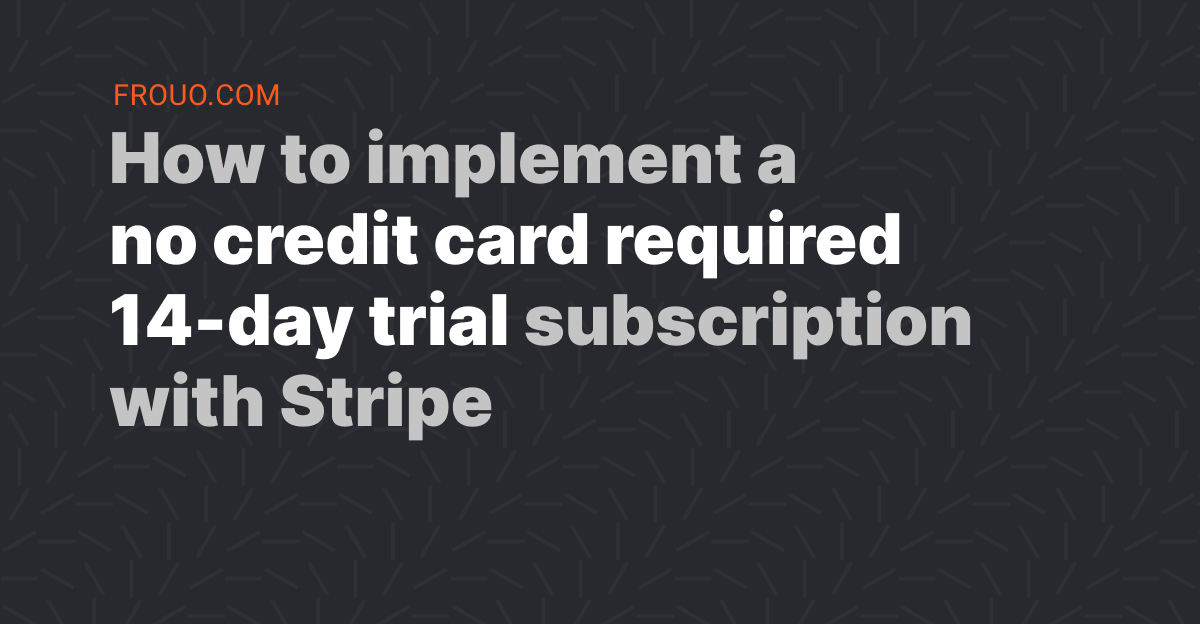
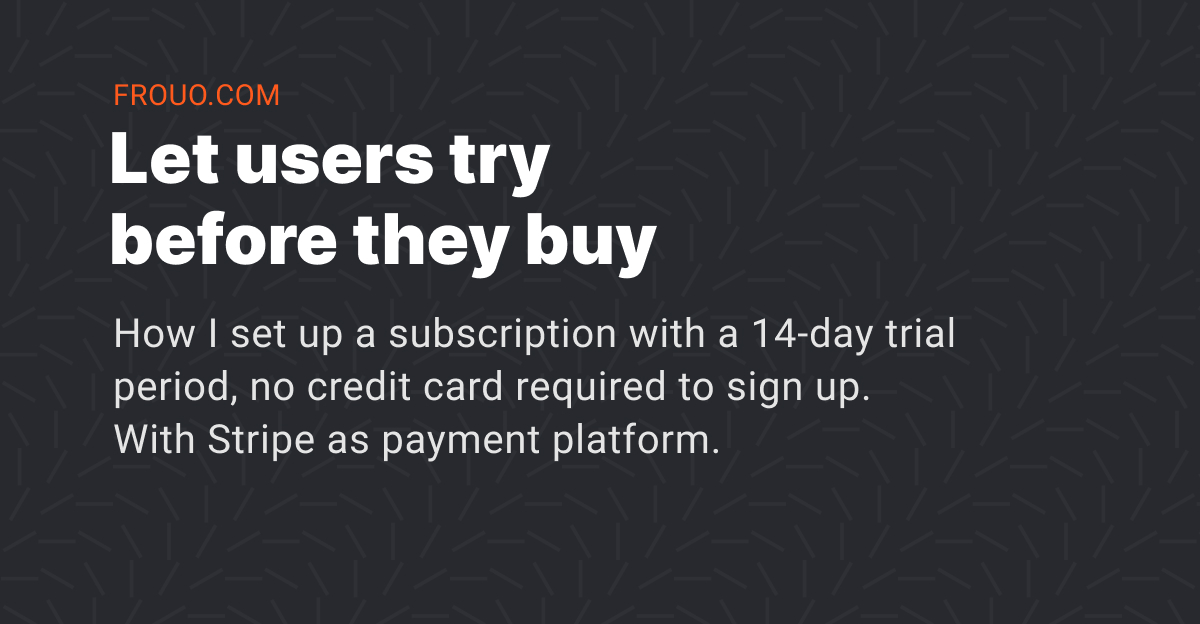
UPDATE POST - Trial subscription with no credit card to sign up

Changed region(s): [[0.0925, 0.2131, 0.8325, 0.7308], [0.0925, 0.3349, 0.1233, 0.3654]]

diff --git a/components/markdown-styles.module.css b/components/markdown-styles.module.css
@@ -72,3 +72,32 @@
 .markdown img[title~="\`mermaid\`"] {
   margin: auto;
 }
+
+.markdown table,
+.markdown th,
+.markdown td {
+  border: 1px solid #eee;
+  border-collapse: collapse;
+  font-size: 0.8rem;
+}
+
+.markdown table {
+  display: block;
+  overflow-x: auto;
+  white-space: nowrap;
+  border: hidden;
+}
+
+.markdown th,
+.markdown td {
+  padding: 10px;
+  text-align: left;
+}
+
+.markdown tr:nth-child(even) {
+  background: transparent;
+}
+
+.markdown tr:nth-child(odd) {
+  background: #0f0f0f;
+}

diff --git a/_posts/how-to-setup-a-subscription-with-trial-and-no-credit-card-to-sign-up.md b/_posts/how-to-setup-a-subscription-with-trial-and-no-credit-card-to-sign-up.md
@@ -1,0 +1,105 @@
+---
+publish: "true"
+title: "How to let your users try before they buy"
+excerpt: "In this post I describe how to set up a subscription with a 14-day trial period, no credit card required to sign up. With Stripe as payment platform."
+environment: "fullstack"
+coverImage: "/assets/blog/no-cc-14-day-trial/cover.jpg"
+date: "2021-06-21T00:00:00.000Z"
+author:
+  name: François Rouault
+  picture: "/assets/blog/authors/jj.jpeg"
+ogImage:
+  url: "/assets/blog/no-cc-14-day-trial/cover.jpg"
+---
+
+The best way to convince your prospects of the value of your product is to let them try it. Let's say for a short period of time, 14 days.
+
+Here is how I came to implement this in [Lembot ↗](https://lembot.com).
+
+With [Stripe ↗](https://stripe.com) as payment platform.
+
+## Back-end
+
+At sign up:
+
+1. create your User
+2. create a Stripe [<code>Customer</code> ↗](https://stripe.com/docs/api/customers/create)
+3. add the Stripe Customer's [<code>id</code> ↗](https://stripe.com/docs/api/customers/object#customer_object-id) to your User
+4. compute the trial end date (eg. `now + 14 days`) and add it to your User too.
+
+So your User database should look like:
+
+| id  | email       | password | stripeCustomerId   | trialEndAt          |
+| --- | ----------- | -------- | ------------------ | ------------------- |
+| 1   | me@mail.com | hidden   | cus_JCnZPUfKfFarTf | 2021-07-04T00:00:00 |
+
+## Front-end
+
+First, check the [Stripe Subscription API ↗](https://stripe.com/docs/api/subscriptions/list) to list the user's current subscriptions.
+
+If the API returns a subscription, then grant the user access to your website. Also, provide a link to the [Customer Portal ↗](https://stripe.com/docs/api/customer_portal) page so the user is free to cancel its subscription anytime.
+
+Otherwise check `trialEndAt`:
+
+If `trialEndAt` date is in the future, then grant User access to your website. Else, tell your user the trial period is over and ask to subscribe. In both case, provide a link to the [Stripe Checkout ↗](https://stripe.com/docs/billing/subscriptions/checkout) payment page so User can subscribe.
+
+Here is the state diagram:
+
+```mermaid
+%%{init: {'theme':'dark'}}%%
+stateDiagram-v2
+    S1 : Stripe Subscription API
+    A : ✅ Access Granted
+    AT : ✅ Access Granted (Trial)
+    SBP : Stripe Customer Portal
+    CT : Check <code>trialEndAt</code>
+    SCL : Stripe Checkout
+    D : ❌ End Of Trial
+
+    [*] --> S1
+    state if_state <<choice>>
+    S1 --> if_state
+    if_state --> A : subcription
+    if_state --> CT : no subscription
+
+    A --> SBP
+
+    state if_state_trial <<choice>>
+    CT --> if_state_trial
+    if_state_trial --> AT : now <= trialEndAt
+    if_state_trial --> D : trialEndAt < now
+
+    AT --> SCL
+    D --> SCL
+```
+
+## A quick word about the Stripe Subscription API
+
+Stripe API allows to create a subscription without specifying any payment method and using the parameter [<code>trial_period_days</code> ↗](https://stripe.com/docs/api/subscriptions/create#create_subscription-trial_period_days).
+
+So it's tempting to create a subscription with a trial at sign up. That's what I did at first 😅...
+
+But that's not what you want. Why?
+
+Here is the documentation for `trial_period_days`:
+
+> Integer representing the number of trial period days before the customer is charged for the first time.
+
+Indeed, at the end of the trial, Stripe automatically charges the customer and create an invoice for the upcoming month.
+
+Even if the customer has no payment method.
+
+Obviously, since no payment method has been entered, Stripe is not able to charge the customer. As a result, at the end of the month Stripe automatically cancels the subscription and keep the unpaid invoice.
+
+That's not what you want because you don't want your customer to have an unpaid invoice in its Customer Portal. Your customer was there to try for 14 days, no reason to be charged.
+
+Below, a screenshot of the Stripe Customer Portal in this situation. The current plan is empty because Stripe ended up canceling the Subscription and the first invoice remains unpaid.
+
+![unpaid invoice](/assets/blog/no-cc-14-day-trial/unpaid-invoice.jpg)
+_Stripe Customer Portal_
+
+_Disclamer: I am not saying that it's a bug. I now realize it is well designed. It is designed this way so both [Stripe Checkout ↗](https://stripe.com/docs/payments/checkout) and [Customer Portal ↗](https://stripe.com/docs/billing/subscriptions/customer-portal) pages are consistent with each other and work out-of-the-box._
+
+## Thank you
+
+Hope it helps.
